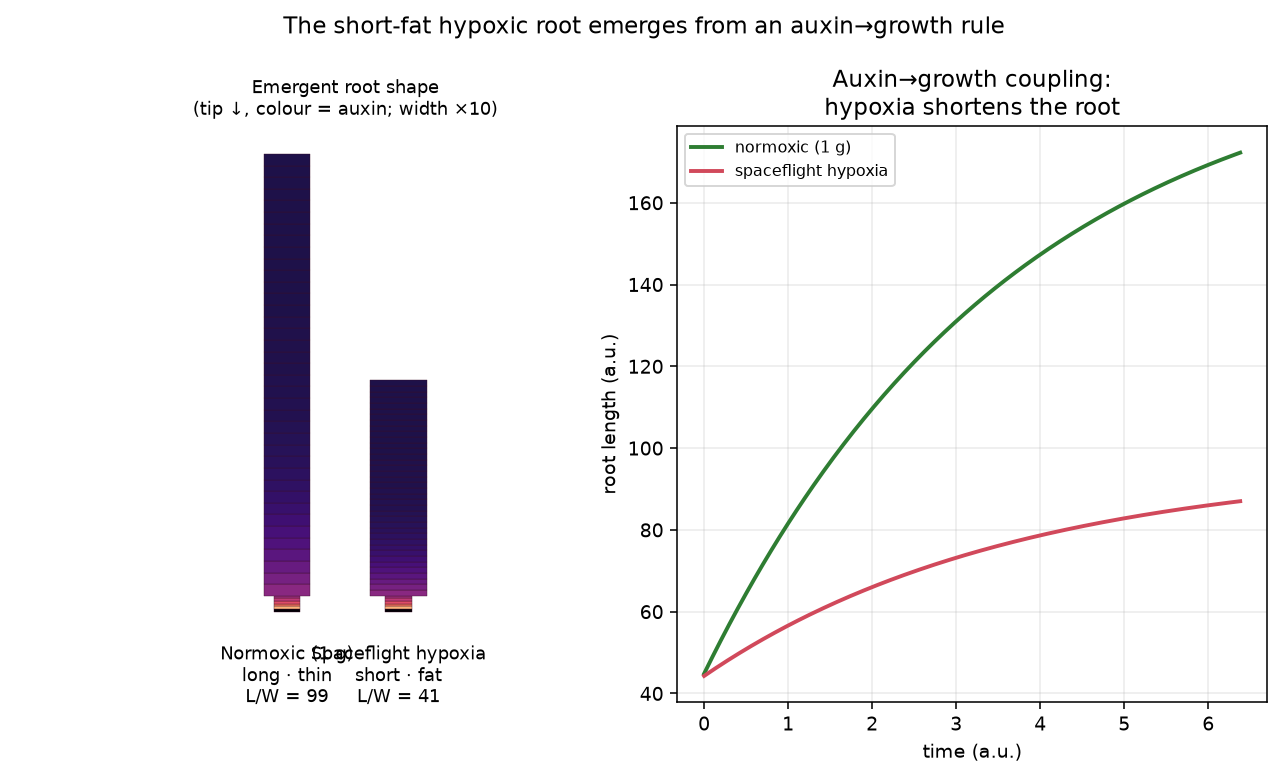
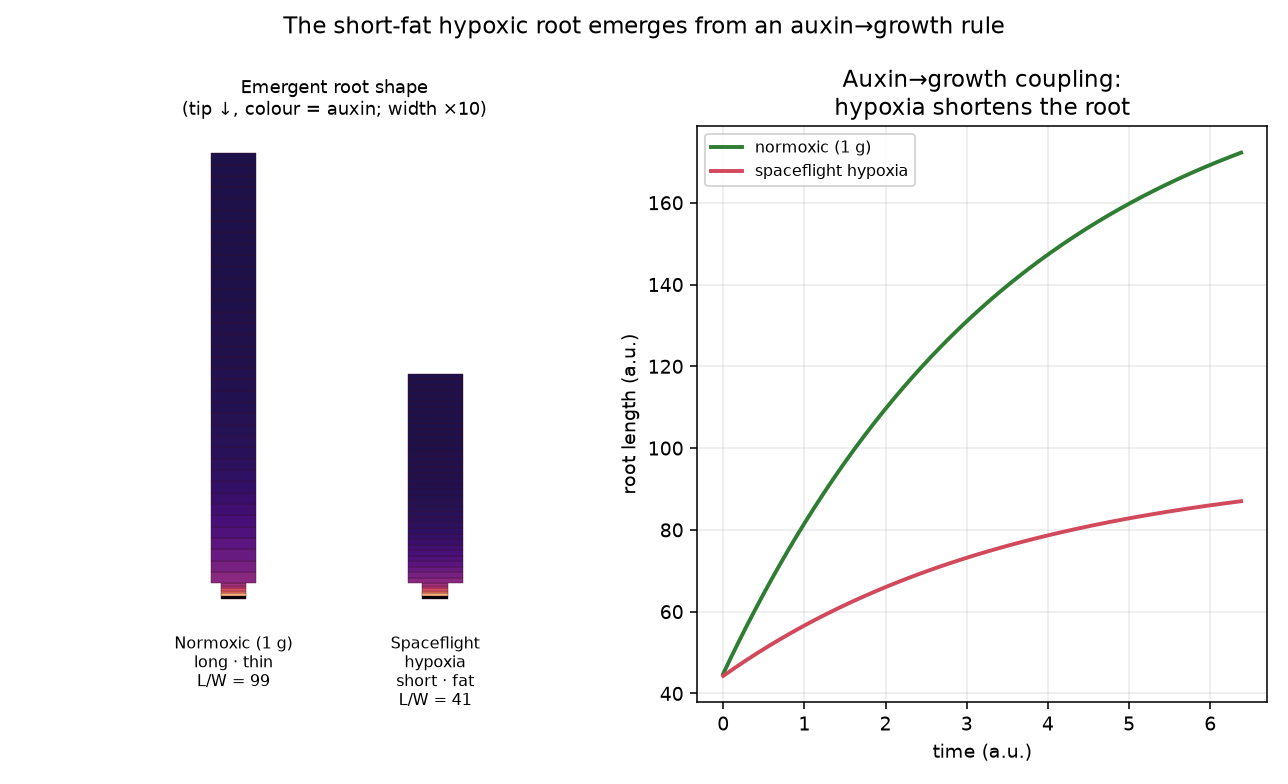
Fig 5: separate emergent-root labels so text is human-readable
Move the hypoxic root to x=78 (was 42), widen xlim to (-30,108) and
set the bottom labels to fontsize 8 so the "Normoxic" and "Spaceflight
hypoxia" captions no longer overlap under the equal-aspect axis.

diff --git a/reanalysis/scripts/06_growth_model.py b/reanalysis/scripts/06_growth_model.py
@@ -49,10 +49,10 @@ def draw(ax, l, w, x0, label):
         ax.add_patch(Rectangle((x0 - ww / 2, y), ww, l[i], facecolor=magma(min(1, auxin[i] / amax)),
                                edgecolor="#3a0f28", lw=0.2))
         y += l[i]
-    ax.text(x0, -12, label, ha="center", va="top", fontsize=9)
+    ax.text(x0, -14, label, ha="center", va="top", fontsize=8)
 draw(axr, lN, wN, 0, f"Normoxic (1 g)\nlong · thin\nL/W = {AN:.0f}")
-draw(axr, lH, wH, 42, f"Spaceflight hypoxia\nshort · fat\nL/W = {AH:.0f}")
-axr.set_xlim(-20, 64); axr.set_ylim(-34, LN * 1.06)
+draw(axr, lH, wH, 78, f"Spaceflight\nhypoxia\nshort · fat\nL/W = {AH:.0f}")
+axr.set_xlim(-30, 108); axr.set_ylim(-40, LN * 1.06)
 axr.set_aspect("equal"); axr.axis("off")
 axr.set_title("Emergent root shape\n(tip ↓, colour = auxin; width ×10)", fontsize=9)
 